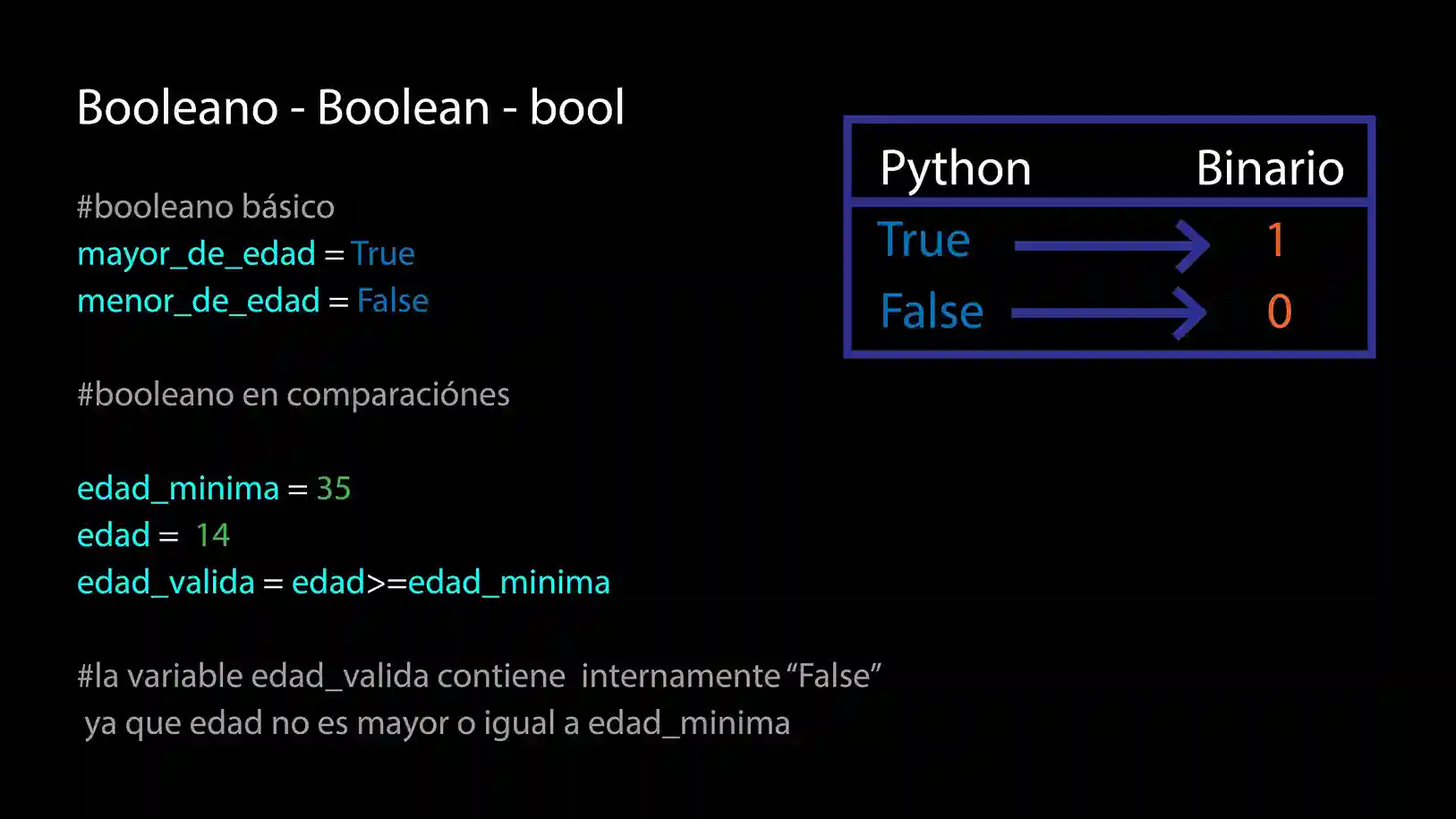
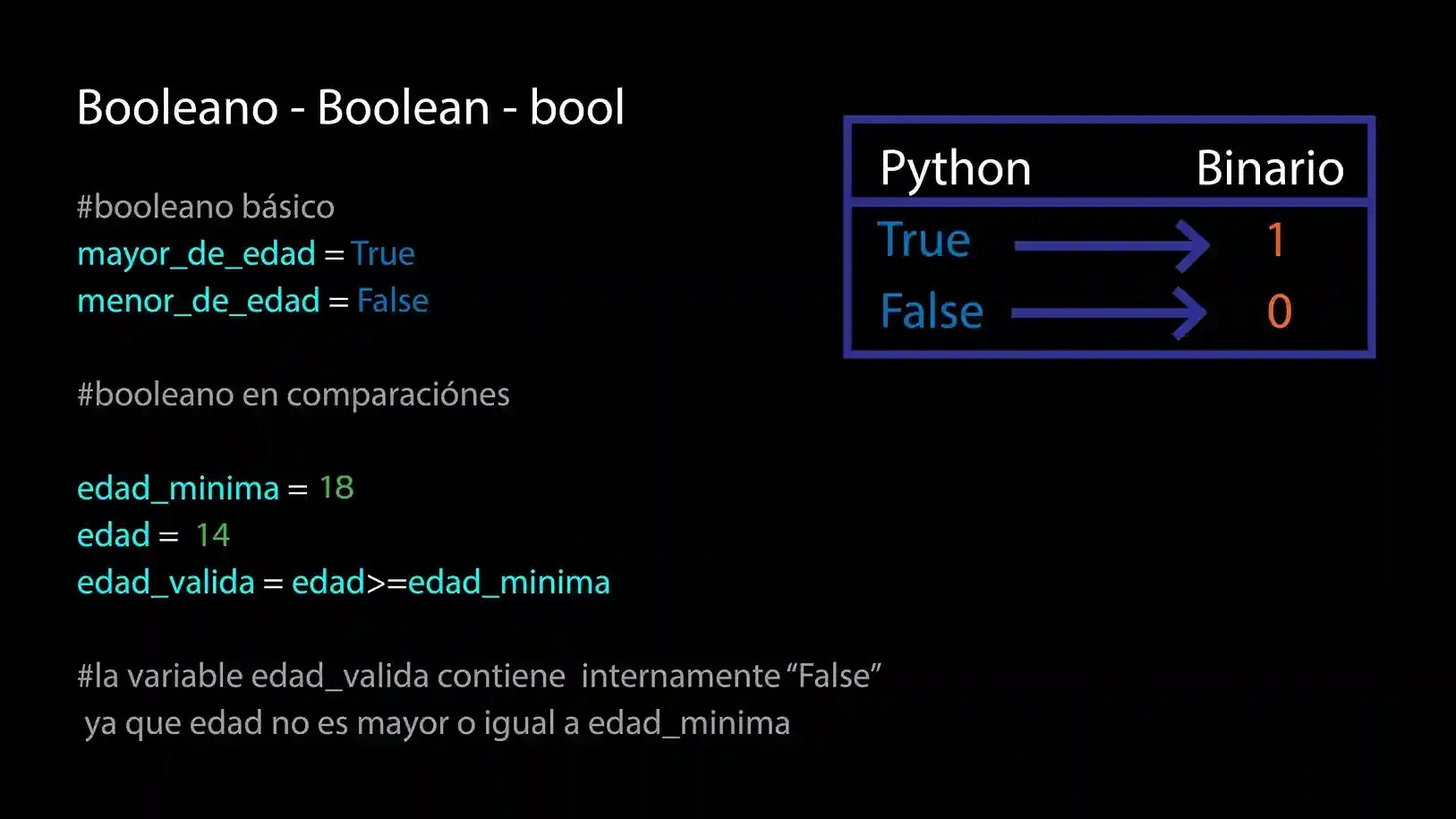
add content in health&productivity

diff --git a/src/components/HealthAndProductivity/HealthAndProductivity.js b/src/components/HealthAndProductivity/HealthAndProductivity.js
@@ -1,5 +1,5 @@
 import React from 'react'
-import { useLocation, Link } from 'react-router-dom';
+import { useLocation } from 'react-router-dom';
 import { colorPrimaryPython, colorSecondaryMicropython } from '../../colors'
 import useScrollAnimation from '../../useScrollAnimation'
 
@@ -169,126 +169,119 @@ const HealthAndProductivity = () => {
                         </div>
                         <div id="element5" className={`mt-4 rounded-5 animated-left ${elementVisibility.element5 ? 'slide-left' : ''}`} style={{ background: colorPrimaryPython, borderRadius: "40px" }}>
                             <button className="accordion-button collapsed  bg-transparent" type="button" data-bs-toggle="collapse" data-bs-target="#a4" aria-expanded="false" aria-controls="flush-collapseFour">
-                                <h2 className="text-light">Buscador de celulares - Mercadolibre (web scraping)</h2>
+                                <h2 className="text-light">El mobiliario</h2>
                             </button>
                             <div id="a4" className="accordion-collapse collapse" data-bs-parent="#accordionFlushExample">
                                 <div className="accordion-body text-light bg-dark rounded-5 rounded-top">
-                                    <h3 className="text-break mx-auto w-75 mt-4">Descripción</h3>
-                                    <p className="text break mx-auto mt-4 w-75">Este programa permite al usuario buscar productos en MercadoLibre ingresando el nombre del producto y seleccionando un criterio de filtrado de precios (de menor a mayor, de mayor a menor, o sin filtrar). Luego, muestra los resultados de la búsqueda ordenados según el criterio elegido.</p>
-                                    <h3 className="text-break mx-auto w-75 mt-4">Pasos Clave del proyecto</h3>
+                                    <p className="text break mx-auto mt-4 w-75">De nada sirve contar con un equipo ergonómicamente preparado, si luego trabajamos sobre una mesa en la que no nos caben las piernas, o nos sentamos en una silla sin respaldo. Las malas posturas representan, en general, el 75% de las lesiones: dolores de espalda, molestias cervicales, lumbalgias… El mobiliario del puesto de trabajo es, pues, fundamental para no dañar nuestra salud.</p>
+                                    <h3 className="text-break mx-auto w-75 mt-4">La mesa</h3>
                                     <ul className="w-75 mx-auto">
-                                        <li><p><span className="fw-bold">Solicitud de entrada del usuario: </span> El usuario proporciona el nombre del producto que desea buscar y selecciona un criterio de filtrado de precios.</p></li>
-                                        <li><p><span className="fw-bold">Construcción de la URL de búsqueda:</span> Se construye la URL de búsqueda utilizando el nombre del producto y el criterio de filtrado seleccionado.</p></li>
-                                        <li><p><span className="fw-bold">Realización de la solicitud GET:</span> Se realiza una solicitud GET a la URL de búsqueda utilizando la biblioteca Requests.</p></li>
-                                        <li><p><span className="fw-bold">Análisis del contenido HTML:</span> Se analiza el contenido HTML de la página utilizando BeautifulSoup.</p></li>
-                                        <li><p><span className="fw-bold">Extracción de información:</span> Se extraen los nombres y precios de los productos de los elementos HTML analizados.</p></li>
-                                        <li><p><span className="fw-bold">Ordenamiento de los resultados:</span> Los resultados se ordenan según el criterio seleccionado por el usuario.</p></li>
-                                        <li><p><span className="fw-bold">Impresión de los resultados:</span> Se imprimen los nombres, precios y enlaces de los productos encontrados.</p></li>
+                                        <li><p>Superficie de color claro y mate.</p></li>
+                                        <li><p>Estable. Que soporte el peso del equipo y de cualquier persona que se apoye sobre alguno de sus bordes.</p></li>
+                                        <li><p>De dimensiones suficientes como para permitir una colocación flexible de todo el material de trabajo. Se recomiendan unas medidas mínimas de 120 x 90 centímetros.</p></li>
+                                        <li><p>Altura regulable. Esta condición no es imprescindible. En su defecto,la silla sí debe tenerla, o se debe usar un reposapies para aquellos que lo precisen. Si es regulable, la altura debe poder oscilar entre los 65 y 75 centímetros. Si no lo es, 75 centímetros es una buena medida.</p></li>
+                                        <li><p>Espacio interior suficiente. Para evitar que las rodillas choquen o que no se puedan estirar un poco las piernas. 60 centímetros de ancho y 65-70 centímetros de profundidad son las medidas más aconsejables.</p></li>
                                     </ul>
-                                    <h3 className="text-break mx-auto w-75 mt-4">Librerias</h3>
+                                    <h3 className="text-break mx-auto w-75 mt-4">La Silla</h3>
                                     <ul className="w-75 mx-auto">
-                                        <li><p><span className="fw-bold">Requests:</span> Para realizar solicitudes HTTP.</p></li>
-                                        <li><p><span className="fw-bold">BeautifulSoup:</span> Para analizar el contenido HTML de la página web y extraer información de ella.</p></li>
+                                        <li><p>Estable. Frente a las cuatro patas convencionales, son mejores las sillas con cinco apoyos y de ruedas antideslizantes, que eviten desplazamientos involuntarios. Éstas permiten mayor libertad de movimiento, evitando, a la vez, algunas posturas forzadas.</p></li>
+                                        <li><p>Graduable en cuanto a altura. Los pies han de apoyarse en el suelo. En caso de personas bajas o niños es aconsejable utilizar un reposapies que, además, evita la comprensión de la circulación en los muslos.</p></li>
+                                        <li><p>Respaldo regulable en altura, profundidad e inclinación. Con la forma de una S suave, cóncavo a nivel torácico y convexo a nivel lumbar, para que se adapte a la estructura de la espalda.</p></li>
+                                        <li><p>Los reposabrazos no son imprescindibles. De tenerlos, su altura no debe obstaculizar la movilidad.</p></li>
+                                        <li><p>La base del asiento ha de ser flexible pero firme. Con una distancia suficiente entre el borde del asiento y la cara posterior de la rodilla, para facilitar la circulación sanguínea.</p></li>
+                                        <li><p>Los controles de ajuste deben ser accesibles desde la posición habitual de trabajo, sin que requieran demasiado esfuerzo para accionarlos.</p></li>
+                                        <li><p>Es preferible una tapicería rugosa, que contribuya a mantener la postura escogida. Mejor si es transpirable.</p></li>
                                     </ul>
-                                    <h3 className="text-break mx-auto w-75 mt-4">Instalación</h3>
-                                    <p className="text-break mx-auto w-75"><span className="fw-bold">1_  </span> Descargá el archivo index.py desde este link -- <Link to="https://drive.google.com/drive/u/0/folders/1SHu1PgjdhmdTZUvsf2U0FF9yF9-yEZg6" target='_blank' className="text-primary">Web scraping</Link>.</p>
-                                    <img className="w-75 d-block mx-auto mb-4 border-content" alt="" src="../img/projects/web_scraping.webp"></img>
-                                    <p className="text-break mx-auto w-75"><span className="fw-bold">2_ </span> Después de abrir el archivo desde Visual Studio Code, abre la terminal desde "Terminal/New terminal.</p>
-                                    <img className="w-75 d-block mx-auto mb-4 border-content" alt="" src="../img/projects/web_scraping2.webp"></img>
-                                    <p className="text-break mx-auto w-75"><span className="fw-bold">3_ </span> Dentro de la terminal escribe: pip install request, esto instalará la libreria request.</p>
-                                    <img className="w-75 d-block mx-auto mb-4 border-content" alt="" src="../img/projects/web_scraping3.webp"></img>
-                                    <p className="text-break mx-auto w-75"><span className="fw-bold">4_ </span> Luego de instalar request, escribe en la terminal: pip install beautifulsoup, esto instalará la libreria beautifulsoup</p>
-                                    <img className="w-75 d-block mx-auto mb-4 border-content" alt="" src="../img/projects/web_scraping4.webp"></img>
-                                    <p className="text-break mx-auto w-75"><span className="fw-bold">5_ </span> Dentro de la terminal escribe: python index.py, esto ejecutará el programa.</p>
-                                    <img className="w-75 d-block mx-auto mb-4 border-content" alt="" src="../img/projects/web_scraping5.webp"></img>
-                                    <h3 className="text-break mx-auto w-75 mt-4">Ejemplo de uso</h3>
+                                    <h3 className="text-break mx-auto w-75 mt-4">Iluminación, ruido y temperatura</h3>
                                     <ul className="w-75 mx-auto">
-                                        <li><p>Escribe el nombre del producto que quieras buscar.</p></li>
-                                        <li><p>Escribe un número de las opciones para ordenar los precios del producto.</p></li>
+                                        <li><p>Una iluminación correcta aumenta la eficacia y la comodidad de su trabajo. En el apartado del monitor ya hemos hablado de la disposición de la computadora respecto a las fuentes de luz natural.</p></li>
+                                        <li><p>Es preferible una iluminación tenue, que no provoque deslumbramientos o reflejos.</p></li>
+                                        <li><p>Para los documentos, es recomendable utilizar un flexo destinado especialmente para ellos, manteniendo un nivel adecuado de iluminación general.</p></li>
+                                        <li><p>Son preferibles las bombillas incandescentes normales a los tubos fluorescentes. Estos, por muy buenos que sean, suelen emitir cierto centelleo apenas perceptible, pero que provoca molestias.</p></li>
+                                        <li><p>Combine la iluminación general e iluminación específica para la tarea, evitando luces intensas en su campo de visión.</p></li>
                                     </ul>
+                                    <p className="text break mx-auto mt-4 w-75">El ruido es un contaminante ambiental que puede producir ansiedad, irritación… La maquinaria informática (impresoras, fax…) emite además sonidos agudos especialmente perturbadores.</p>
+                                    <ul className="w-75 mx-auto">
+                                        <li><p>Alejar lo máximo posible los focos de ruido.</p></li>
+                                        <li><p>Usar encerramientos acústicos para las impresoras.</p></li>
+                                    </ul>
+                                    <p className="text break mx-auto mt-4 w-75">Un excesivo calor o frío produce incomodidad, pero también somnolencia o ansiedad e inquietud. La humedad relativa del aire puede provocar sequedad de las mucosas respiratorias y molestias.</p>
+                                    <ul className="w-75 mx-auto">
+                                        <li><p>Una temperatura ambiental entre 19º y 24ºC.</p></li>
+                                        <li><p>Una humedad relativa entre el 40% y 70%.</p></li>
+                                    </ul>
+                                    <img className="w-50 d-block mx-auto mb-4 border-content bg-light" alt="" src="../img/healthAndProductivity/postura2.webp"></img>
                                 </div>
                             </div>
                         </div>
                         <div id="element6" className={`mt-4 rounded-5 animated-left ${elementVisibility.element6 ? 'slide-left' : ''}`} style={{ background: colorPrimaryPython, borderRadius: "40px" }}>
                             <button className="accordion-button collapsed bg-transparent" type="button" data-bs-toggle="collapse" data-bs-target="#a5" aria-expanded="false" aria-controls="flush-collapseFive">
-                                <h2 className="text-light">Detección de dedos</h2>
+                                <h2 className="text-light">Postura corporal</h2>
                             </button>
                             <div id="a5" className="accordion-collapse collapse" data-bs-parent="#accordionFlushExample">
                                 <div className="accordion-body text-light bg-dark rounded-5 rounded-top">
-                                    <h3 className="text-break mx-auto w-75 mt-4">Descripción</h3>
-                                    <p className="text break mx-auto mt-4 w-75">Este programa reconoce y cuenta los dedos de una mano en tiempo real, se utilza la libreria mediapipe y openCv.</p>
-                                    <h3 className="text-break mx-auto w-75 mt-4">Pasos Clave del proyecto</h3>
+                                    <p className="text break mx-auto mt-4 w-75">El diseño del puesto de trabajo debe permitir que se pueda adoptar la siguiente postura, que ha de tenerse en cuenta como referencia. Cualquier otra que no suponga un sobre esfuerzo es también válida.</p>
                                     <ul className="w-75 mx-auto">
-                                        <li><p><span className="fw-bold">Cálculo de distancias de dedos: </span> la función palm_centroid calcula el centroide de la palma de la mano.</p></li>
-                                        <li><p><span className="fw-bold">Captura de video: </span> Se utiliza la función cv2.VideoCapture().</p></li>
-                                        <li><p><span className="fw-bold">Conteo de dedos: </span> Contar y visualizar los dedos levantados en el frame.</p></li>
-                                        <li><p><span className="fw-bold">Procesar cada fotograma del video: </span> Se procesa cada fotograma del video para detectar la posición de la mano y realizar acciones en función de los gestos detectados.</p></li>
-                                        <li><p><span className="fw-bold">Área de interacción: </span> Se dibuja un área de interacción en la pantalla del video.</p></li>
-                                        <li><p><span className="fw-bold">Realizar acciones del mouse: </span> Se mueve el cursor del mouse y se simulan clics y desplazamientos de la rueda del mouse utilizando PyAutoGUI.</p></li>
+                                        <li><p>Muslos horizontales y piernas verticales, formando un ángulo de 90º.</p></li>
+                                        <li><p>Entre el ángulo que forma la rodilla y el borde de la silla debe haber, más o menos, una cuarta.</p></li>
+                                        <li><p>Brazos verticales y antebrazos horizontales, formando un ángulo recto desde el codo.</p></li>
+                                        <li><p>Antebrazo y mano en línea recta, paralelos al suelo.</p></li>
+                                        <li><p>Los codos pueden tocar ligeramente el costado pero no los oprima contra su cuerpo.</p></li>
+                                        <li><p>La muñecas en una posición natural y sin doblarlas excesivamente.</p></li>
+                                        <li><p>Manos relajadas, sin extensión ni desviación lateral. Preocúpese especialmente de mantener los pulgares y los dedos en una postura relajada y natural.</p></li>
+                                        <li><p>Columna vertebral recta. Sin torsión del tronco. La zona lumbar debe quedar cómodamente apoyada.</p></li>
+                                        <li><p>Plantas de los pies apoyadas. Si la silla es demasiado alta para poder colocar los pies sobre el suelo, utilice un reposapiés.</p></li>
+                                        <li><p>Línea de visión paralela a la superficie de trabajo.</p></li>
+                                        <li><p>Ángulo de visión menor de 60º en el plano horizontal, y entre los cinco y los 35º en el vertical.</p></li>
+                                        <li><p>Cuerpo no aprisionado entre la silla y la mesa.</p></li>
+                                        <li><p>Adopte una postura relajada erguida. Evite inclinarse demasiado hacia adelante o hacia atrás.</p></li>
+                                        <li><p>Coloque los materiales que utiliza con frecuencia al alcance de la mano.</p></li>
                                     </ul>
-                                    <h3 className="text-break mx-auto w-75 mt-4">Librerias</h3>
-                                    <ul className="w-75 mx-auto">
-                                        <li><p><span className="fw-bold">OpenCV (cv2):</span> Para la captura de video, procesamiento de imágenes y visualización.</p></li>
-                                        <li><p><span className="fw-bold">MediaPipe (mediapipe):</span> Para la detección de manos y el seguimiento de puntos de referencia en la mano.</p></li>
-                                        <li><p><span className="fw-bold">NumPy (np):</span> Para realizar operaciones numéricas, como cálculos de distancia.</p></li>
-                                        <li><p><span className="fw-bold">math:</span> Para realizar operaciones matemáticas, como el cálculo de ángulos.</p></li>
-                                    </ul>
-                                    <h3 className="text-break mx-auto w-75 mt-4">Instalación</h3>
-                                    <p className="text-break mx-auto w-75"><span className="fw-bold">1_  </span> Descargá la carpeta "Detección de dedos" desde este link -- <Link to="https://drive.google.com/drive/u/0/folders/1_bCxbxQRA9Nq2q3u-LGSrdW2NOavmCOg" target='_blank' className="text-primary">Detección de dedos</Link>.</p>
-                                    <img className="w-75 d-block mx-auto mb-4 border-content" alt="" src="../img/projects/fingerscan.webp"></img>
-                                    <p className="text-break mx-auto w-75"><span className="fw-bold">2_ </span> Después de abrir el archivo desde Visual Studio Code, abre la terminal desde "Terminal/New terminal.</p>
-                                    <img className="w-75 d-block mx-auto mb-4 border-content" alt="" src="../img/projects/fingerscan2.webp"></img>
-                                    <p className="text-break mx-auto w-75"><span className="fw-bold">3_ </span> Dentro de la terminal escribe: pip install virtualenv, esto instalará la libreria virtualenv, es la encargada de realizar el entorno virtual.</p>
-                                    <img className="w-75 d-block mx-auto mb-4 border-content" alt="" src="../img/projects/fingerscan3.webp"></img>
-                                    <p className="text-break mx-auto w-75"><span className="fw-bold">4_ </span> Luego de instalar el entorno virtual, escribe en la terminal: fingerScan\Scripts\activate, esto hará que el entorno virtual este activo.</p>
-                                    <img className="w-75 d-block mx-auto mb-4 border-content" alt="" src="../img/projects/fingerscan4.webp"></img>
-                                    <p className="text-break mx-auto w-75"><span className="fw-bold">5_ </span> Dentro de la terminal escribe: python scan.py, esto ejecutará el programa. En caso de no ejecutarse, debes instalar la version de python 3.8.3.0 y realizar de nuevo de proceso.</p>
-                                    <img className="w-75 d-block mx-auto mb-4 border-content" alt="" src="../img/projects/fingerscan5.webp"></img>
+                                    <img className="w-50 d-block mx-auto mb-4 border-content bg-light" alt="" src="../img/healthAndProductivity/postura3.webp"></img>
                                 </div>
                             </div>
                         </div>
                         <div id="element7" className={`mt-4 rounded-5 animated-left ${elementVisibility.element6 ? 'slide-left' : ''}`} style={{ background: colorPrimaryPython, borderRadius: "40px" }}>
                             <button className="accordion-button collapsed bg-transparent" type="button" data-bs-toggle="collapse" data-bs-target="#a6" aria-expanded="false" aria-controls="flush-collapseFive">
-                                <h2 className="text-light">Virtual mouse</h2>
+                                <h2 className="text-light">Cuidado de la vista</h2>
                             </button>
                             <div id="a6" className="accordion-collapse collapse" data-bs-parent="#accordionFlushExample">
                                 <div className="accordion-body text-light bg-dark rounded-5 rounded-top">
-                                    <h3 className="text-break mx-auto w-75 mt-4">Descripción</h3>
-                                    <p className="text break mx-auto mt-4 w-75">Este programa utiliza la biblioteca OpenCV (cv2), MediaPipe (mediapipe), NumPy (np), PyAutoGUI (pyautogui) y time para detectar la posición de la mano y simular movimientos del mouse en función de los gestos de la mano detectados.</p>
-                                    <h3 className="text-break mx-auto w-75 mt-4">Pasos Clave del proyecto</h3>
+                                    <p className="text break mx-auto mt-4 w-75">Existe cierta discrepancia entre los expertos sobre si los trastornos oculares derivados de trabajar con ordenadores son sólo transitorios o se pueden convertir en patológicos. Lo que sí está demostrado es que, al trabajar con pantallas de forma prolongada y habitual, algunas deficiencias oculares sin importancia como ser irritación o fatiga , se pueden convertir en lesiones más o menos graves.</p>
                                     <ul className="w-75 mx-auto">
-                                        <li><p><span className="fw-bold">Ejecución del entorno virtual: </span> Este entorno vitual contiene la versión de python 3.8 y las librerias necesarias para ejecutarlo(carpeta "virtualmouse").</p></li>
-                                        <li><p><span className="fw-bold">Detección de manos: </span> Se configura el modelo de detección de manos utilizando la clase Hands de MediaPipe.</p></li>
-                                        <li><p><span className="fw-bold">Capturar el video de la cámara: </span> Se captura el video de la cámara utilizando OpenCV.</p></li>
-                                        <li><p><span className="fw-bold">Procesar cada fotograma del video: </span> Se procesa cada fotograma del video para detectar la posición de la mano y realizar acciones en función de los gestos detectados.</p></li>
-                                        <li><p><span className="fw-bold">Área de interacción: </span> Se dibuja un área de interacción en la pantalla del video.</p></li>
-                                        <li><p><span className="fw-bold">Realizar acciones del mouse: </span> Se mueve el cursor del mouse y se simulan clics y desplazamientos de la rueda del mouse utilizando PyAutoGUI.</p></li>
+                                        <li><p>Por ello, la primera recomendación a la hora de trabajar con computadoras es someterse a una revisión oftalmológica. Algunas veces se llega a la consulta del especialista con un trastorno de visión que se atribuye al uso del ordenador, cuando lo que en realidad ocurre es que existía un problema de base sin tratar que se manifiesta tras muchas horas frente a la pantalla.</p></li>
+                                        <li><p>Si sufre algún problema en la visión, es mejor utilizar lentes especialmente destinados al uso de la computadora. Consulte al oftalmólogo. Las gafas de sol reducen la capacidad de lectura.</p></li>
+                                        <li><p>Efectúe pausas frecuentes y descanse la vista.</p></li>
+                                        <li><p>Mantenga limpios sus lentes, sus lentes de contacto y la pantalla.</p></li>
+                                        <li><p>Si utiliza un filtro de pantalla, límpielo siguiendo sus instrucciones.</p></li>
+                                        <li><p>Lleve a cabo revisiones periódicas de la vista por parte de un especialista.</p></li>
+                                        <li><p>Descansos de cinco minutos cada hora. Durante estas breves pausas hay que recrear la vista mirando escenas lejanas.</p></li>
+                                        <li><p>Ejercicios oculares. Se puede simplemente cerrar los ojos con la ayuda de las palmas de las manos, pero sin presionar. Otro muy efectivo es, sentarse correctamente y mirar al frente. Después, sin mover la cabeza, desviar la mirada todo lo posible hacia la izquierda y luego a la derecha.</p></li>
                                     </ul>
-                                    <h3 className="text-break mx-auto w-75 mt-4">Librerias</h3>
+                                    <img className="w-50 d-block mx-auto mb-4 border-content bg-light" alt="" src="../img/healthAndProductivity/ojos.webp"></img>
+                                </div>
+                            </div>
+                        </div>
+                        <div id="element8" className={`mt-4 rounded-5 animated-left ${elementVisibility.element6 ? 'slide-left' : ''}`} style={{ background: colorPrimaryPython, borderRadius: "40px" }}>
+                            <button className="accordion-button collapsed bg-transparent" type="button" data-bs-toggle="collapse" data-bs-target="#a7" aria-expanded="false" aria-controls="flush-collapseFive">
+                                <h2 className="text-light">Hábitos de trabajo y ejercicios saludables</h2>
+                            </button>
+                            <div id="a7" className="accordion-collapse collapse" data-bs-parent="#accordionFlushExample">
+                                <div className="accordion-body text-light bg-dark rounded-5 rounded-top">
+                                    <p className="text break mx-auto mt-4 w-75">La colocación del mobiliario, los equipos de la oficina y la iluminación no son los únicos factores que determinan la forma de sentirse a lo largo de la jornada laboral. Sus hábitos de trabajo también son muy importantes.</p>
                                     <ul className="w-75 mx-auto">
-                                        <li><p><span className="fw-bold">OpenCV (cv2):</span> Para la captura de video, procesamiento de imágenes y visualización.</p></li>
-                                        <li><p><span className="fw-bold">MediaPipe (mediapipe):</span> Para la detección de manos y el seguimiento de puntos de referencia en la mano.</p></li>
-                                        <li><p><span className="fw-bold">NumPy (np):</span> Para realizar operaciones numéricas, como cálculos de distancia.</p></li>
-                                        <li><p><span className="fw-bold">PyAutoGUI (pyautogui):</span> Para controlar el cursor del mouse y simular acciones del mouse, como clics y desplazamientos de la rueda del mouse.</p></li>
-                                        <li><p><span className="fw-bold">Time:</span> Para realizar pausas o esperas en el script.</p></li>
+                                        <li><p>Trabaje en una postura relajada y natural. Evite las posturas forzadas que pueden producir cansancio muscular.</p></li>
+                                        <li><p>Examine sus hábitos de trabajo y los tipos de tarea que lleva a cabo. Interrumpa la rutina e intente variar las tareas a lo largo del día de forma que no trabaje en la misma posición ni realice las mismas actividades con sus manos durante varias horas.</p></li>
+                                        <li><p>Es mejor hacer pausas cortas y frecuentes que pocas y prolongadas.</p></li>
+                                        <li><p>En cualquier caso, no conviene pasar más de una hora sin moverse. Levántese y tómese algunos minutos para estirar los músculos.</p></li>
+                                        <li><p>Ciertos ejercicios que mejoran la circulación se pueden hacer mientras se trabaja. Con los pies juntos, levantar primero los talones y luego las puntas, o mover en círculos los hombros delante y atrás, son algunos de ellos..</p></li>
+                                        <li><p>Utilice la fuerza mínima necesaria para pulsar las teclas. Evite golpear las teclas ejerciendo una fuerza superior a la necesaria.</p></li>
+                                        <li><p>Tome el ratón con la mano relajada. No lo sujete con fuerza. Utilice todo el brazo para moverlo.</p></li>
                                     </ul>
-                                    <h3 className="text-break mx-auto w-75 mt-4">Instalación</h3>
-                                    <p className="text-break mx-auto w-75"><span className="fw-bold">1_  </span> Descargá la carpeta "mouse" desde este link -- <Link to="https://drive.google.com/drive/u/0/folders/1q-lgvOBQV-xjJQ_tX2uzgnIP2BaJF1MB" target='_blank' className="text-primary">Virtual Mouse</Link>.</p>
-                                    <img className="w-75 d-block mx-auto mb-4 border-content" alt="" src="../img/projects/virtualmouse.webp"></img>
-                                    <p className="text-break mx-auto w-75"><span className="fw-bold">2_ </span> Después de abrir el archivo desde Visual Studio Code, abre la terminal desde "Terminal/New terminal.</p>
-                                    <img className="w-75 d-block mx-auto mb-4 border-content" alt="" src="../img/projects/virtualmouse2.webp"></img>
-                                    <p className="text-break mx-auto w-75"><span className="fw-bold">3_ </span> Dentro de la terminal escribe: pip install virtualenv, esto instalará la libreria virtualenv, es la encargada de realizar el entorno virtual.</p>
-                                    <img className="w-75 d-block mx-auto mb-4 border-content" alt="" src="../img/projects/virtualmouse3.webp"></img>
-                                    <p className="text-break mx-auto w-75"><span className="fw-bold">4_ </span> Luego de instalar el entorno virtual, escribe en la terminal: virtualmouse\Scripts\activate, esto hará que el entorno virtual este activo.</p>
-                                    <img className="w-75 d-block mx-auto mb-4 border-content" alt="" src="../img/projects/virtualmouse4.webp"></img>
-                                    <p className="text-break mx-auto w-75"><span className="fw-bold">5_ </span> Dentro de la terminal escribe: python mouse_control_game.py, esto ejecutará el programa. En caso de no ejecutarse, debes instalar la version de python 3.8.3.0 y realizar de nuevo de proceso.</p>
-                                    <img className="w-75 d-block mx-auto mb-4 border-content" alt="" src="../img/projects/virtualmouse5.webp"></img>
-                                    <h3 className="text-break mx-auto w-75 mt-4">Instrucciones</h3>
-                                    <ul className="w-75 mx-auto">
-                                        <li><p>Si tu dedo pulgar lo acercas a la palma de la mano, la rueda del mouse se moverá.</p></li>
-                                        <li><p>Si tu dedo indice lo acercas a la palma de la mano, hará click izquierda del mouse.</p></li>
-                                        <li><p>Si tu dedo medio lo acercas a la palma de la mano, hará click derecho del mouse.</p></li>
-                                    </ul>
+                                    <img className="w-50 d-block mx-auto mb-4 border-content bg-light" alt="" src="../img/healthAndProductivity/flexion-silla.webp"></img>
+                                    <p className="text break mx-auto mt-4 w-75">La comodidad y la seguridad al trabajar en su computadora puede verse afectada por su estado general de salud. Las personas tienen distintos niveles de tolerancia física frente al trabajo intenso durante períodos prolongados. Supervise sus niveles personales de tolerancia y evite sobrepasarlos de forma regular.</p>
+                                    <p className="text break mx-auto mt-4 w-75">La salud general y la tolerancia frente a las condiciones del trabajo se pueden mejorar mediante una prevención adecuada, haciéndose chequeos periódicos de salud y practicando ejercicio regularmente.</p>
+                                    <img className="w-50 d-block mx-auto mb-4 border-content bg-light" alt="" src="../img/healthAndProductivity/flexion-silla2.webp"></img>
                                 </div>
                             </div>
                         </div>

diff --git a/src/components/Class/Class2.js b/src/components/Class/Class2.js
@@ -4,6 +4,7 @@ import { db } from '../../Utils/firebase'
 import { collection, getDocs } from 'firebase/firestore'
 import { colorPrimaryPython } from '../../colors'
 import useScrollAnimation from '../../useScrollAnimation'
+import { classCode2 } from './classCode';
 
 const Class2 = () => {
 
@@ -20,6 +21,14 @@ const Class2 = () => {
       })
     })
   }, [])
+
+  const copyButton = (code) => {
+    return (
+      <div className="w-75 mx-auto d-flex p-2 flex-row-reverse justify-content-between">
+        <span><button className="btn btn-sm text-light" style={{ backgroundColor: "#234A91" }} onClick={() => navigator.clipboard.writeText(code)}><i className="bi bi-clipboard" /> Copiar</button></span>
+      </div>
+    )
+  }
 
   return (
     <>
@@ -131,12 +140,14 @@ const Class2 = () => {
                       <p className="text-break mx-auto w-75">Este es el primer tipo de dato que vamos a ver y se asemeja al lenguaje máquina, ya que su comportamiento es de forma binaria
                         como la máquina (0,1) pero tiene la particularidad de que no vamos a escribir 0 y 1,  sino que utilizaremos la palabra False para representar el 0 y True para representar el 1.
                       </p>
+                      {copyButton(classCode2[0]["code"])}
                       <img className="w-75 d-block mx-auto mb-4 border-content" alt="" src="../img/class2/boolean.webp"></img>
                       <h3 className="text-break mx-auto w-75" >Integer/float</h3>
                       <p className="text-break mx-auto w-75">Cuando queramos representar números vamos a usar el tipo dato "int" o el tipo de dato "float".
                         El tipo de dato Int representará todos los números enteros, estos pueden ser tanto positivos como negativos;
                         El tipo de dato Float representará todos los números fraccionarios, estos pueden ser positivos, negativos y mostrados como decimales también.
                       </p>
+                      {copyButton(classCode2[1]["code"])}
                       <img className="w-75 d-block mx-auto mb-4 border-content" alt="" src="../img/class2/int.webp"></img>
                       <h3 className="text-break mx-auto w-75">String</h3>
                       <p className="text-break mx-auto w-75">String: Este tipo de datos representa letras o texto, hay que tener en cuenta que podemos tipear

diff --git a/src/components/Class/classCode.js b/src/components/Class/classCode.js
@@ -1,0 +1,25 @@
+export const classCode2 = [{"code":`
+# booleano/boolean - bool
+# True  --> 1
+# False --> 0
+
+#booleano básico
+mayor_de_edad = True
+menor_de_edad = False
+
+#booleano en comparaciónes
+
+edad_minima = 18
+edad = 14
+edad_válidar = edad>=edad_minima
+
+#la variable edad_valida conrtiene internamente "False" ya que edad no es mayor o igual a edad_minima
+
+`},
+{"code":`
+
+
+`
+}
+
+]
